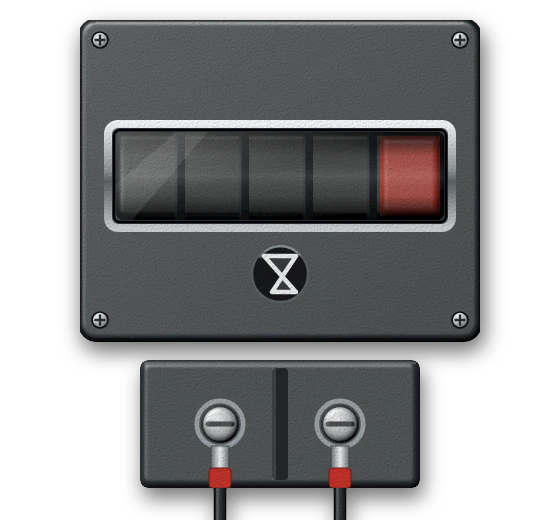
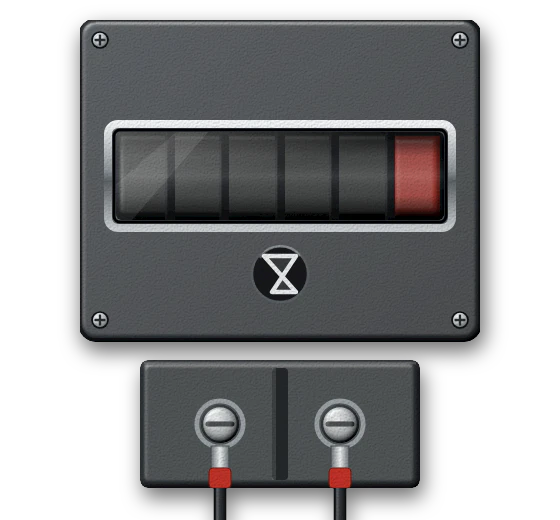
Datos de dibujos corregidos (4.16.7)
- Selector del Taller: bornes 33 y 34 dibujados y rotulados (los usa el selector del servotimón).
- Pulsador: los bornes de la ficha visual, sobre sus tornillos.
- Horómetro: seis rodillos (cinco de horas y uno rojo de décimas), con una cifra en cada uno, como las 12408,6 h de la simulación.
- Guardamotor: placa de 17-23 A, de acuerdo con la escala del dial.
- Etiquetas oscuras sobre fondo claro en el amperímetro, el voltímetro, la bornera, la placa del transformador y el arrancador suave; 11 y 21 del relé dentro de su caja; la etiqueta del PLC deja libre el LED Q0.2.
- 599 pruebas, 0 fallos.

diff --git a/tools/dibujos_realistas/a_mano/horometro.py b/tools/dibujos_realistas/a_mano/horometro.py
@@ -24,7 +24,8 @@ a('<path d="M48,11.5 H232" stroke="#fff" stroke-opacity="0.2" stroke-width="1.5"
 a('<rect x="54" y="62" width="172" height="52" rx="5" fill="none" stroke="url(#ho_cromo)" stroke-width="4"/>')
 a('<rect x="57" y="65" width="166" height="46" rx="3" fill="none" stroke="#050607" stroke-width="1.5"/>')
 # Rodillos: separadores con su eje y curvatura de cada rodillo
-for x in (90, 122, 154, 186):
+# Cinco rodillos de horas y uno rojo de décimas, como las 12408,6 h de la simulación.
+for x in (85, 112, 140, 167, 195):
     a(f'<rect x="{x - 2.5}" y="66" width="5" height="44" fill="#1b1e21"/><rect x="{x - 2.5}" y="66" width="1.2" height="44" fill="#fff" opacity="0.15"/>')
 a('<rect x="58" y="66" width="164" height="44" rx="3" fill="url(#ho_rodillo)"/>')
 # Cristal de la ventana

diff --git a/tools/dibujos_realistas/a_mano/taller_selector.py b/tools/dibujos_realistas/a_mano/taller_selector.py
@@ -78,5 +78,9 @@ for x0 in (20, 116):
     a(f'<rect x="{cx - 6}" y="173" width="12" height="5" rx="1" fill="#050607"/><rect x="{cx - 4}" y="174.4" width="8" height="2" rx="0.8" fill="#2fa84d"/>')
 for x in (42, 82, 138, 178):
     a(borne(x, 212))
+# Tercer contacto 33-34, el que usa el selector REMOTE-STOP-LOCAL del servotimón: bornes más
+# pequeños a los lados de la placa de leyenda.
+for x in (42, 178):
+    a(f'<g transform="translate({x},150) scale(0.7) translate({-x},-150)">' + borne(x, 150) + '</g>')
 
 ANCHO, ALTO, CUERPO = R.automatico(os.path.join(R.REPO, "art", "taller", "selector.svg"), "".join(d), P.DEFS + DEFS)
